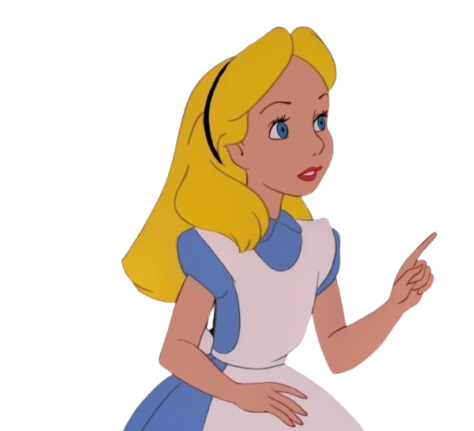
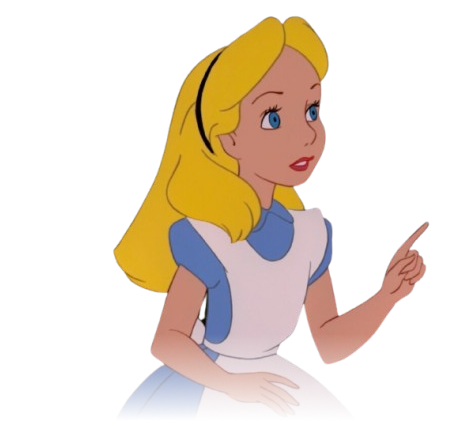
who button

diff --git a/style.css b/style.css
@@ -49,14 +49,31 @@ body {
 }
 
 .img-btn:hover { transform: scale(1.05); }
-.img-btn.who:hover { transform: scale(0.5); }
 .img-btn.active { transform: scale(1.1); filter: brightness(0.7); }
 
 .img-btn.where { top: 5%; left: 2%; width: 18%; height: auto; }
 .img-btn.when { bottom: 3%; right: 2%; width: 16%; height: auto; }
-.img-btn.who { bottom: 1%; left: 1%; width: 30%; height: auto; }
 .img-btn.why { top: 2%; left: 80%; width: 22%; }
 .img-btn.what { top: 4%; left: 50%; width: 20%; filter: brightness(0.7); }
+
+/* WHO button specific */
+.img-btn.who {
+  bottom: 1%;
+  left: 1%;
+  width: 30%;
+  height: auto;
+  transition: transform 0.15s ease, filter 0.15s ease, opacity 0.5s ease;
+  content: url("images/who.png");   /* default image */
+}
+
+/* On hover → swap to alicefly.png */
+.img-btn.who:hover {
+  content: url("images/alicefly.png");
+  transform: scale(1.0); /* keeps your global hover scale */
+}
+
+
+
 
 /* SweetAlert2 */
 .swal2-popup {
@@ -96,6 +113,9 @@ body {
   background: #fff url("images/what_button.png") no-repeat center center;
   background-size: cover;
 }
+
+
+
 
 
 /* 🔹 Media Queries */
